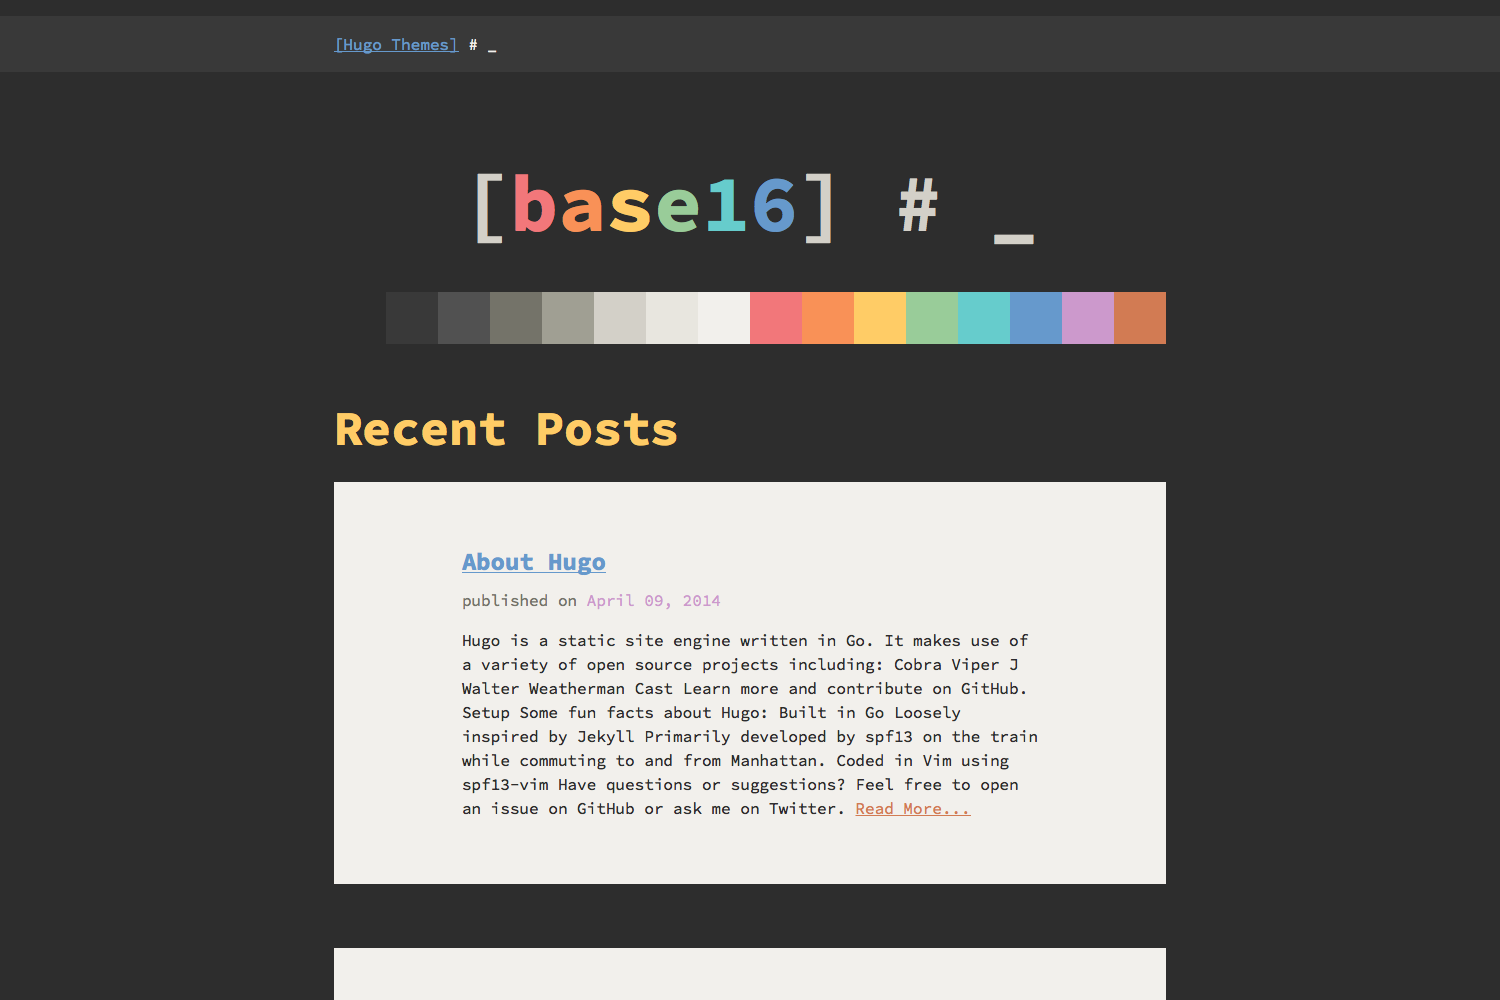
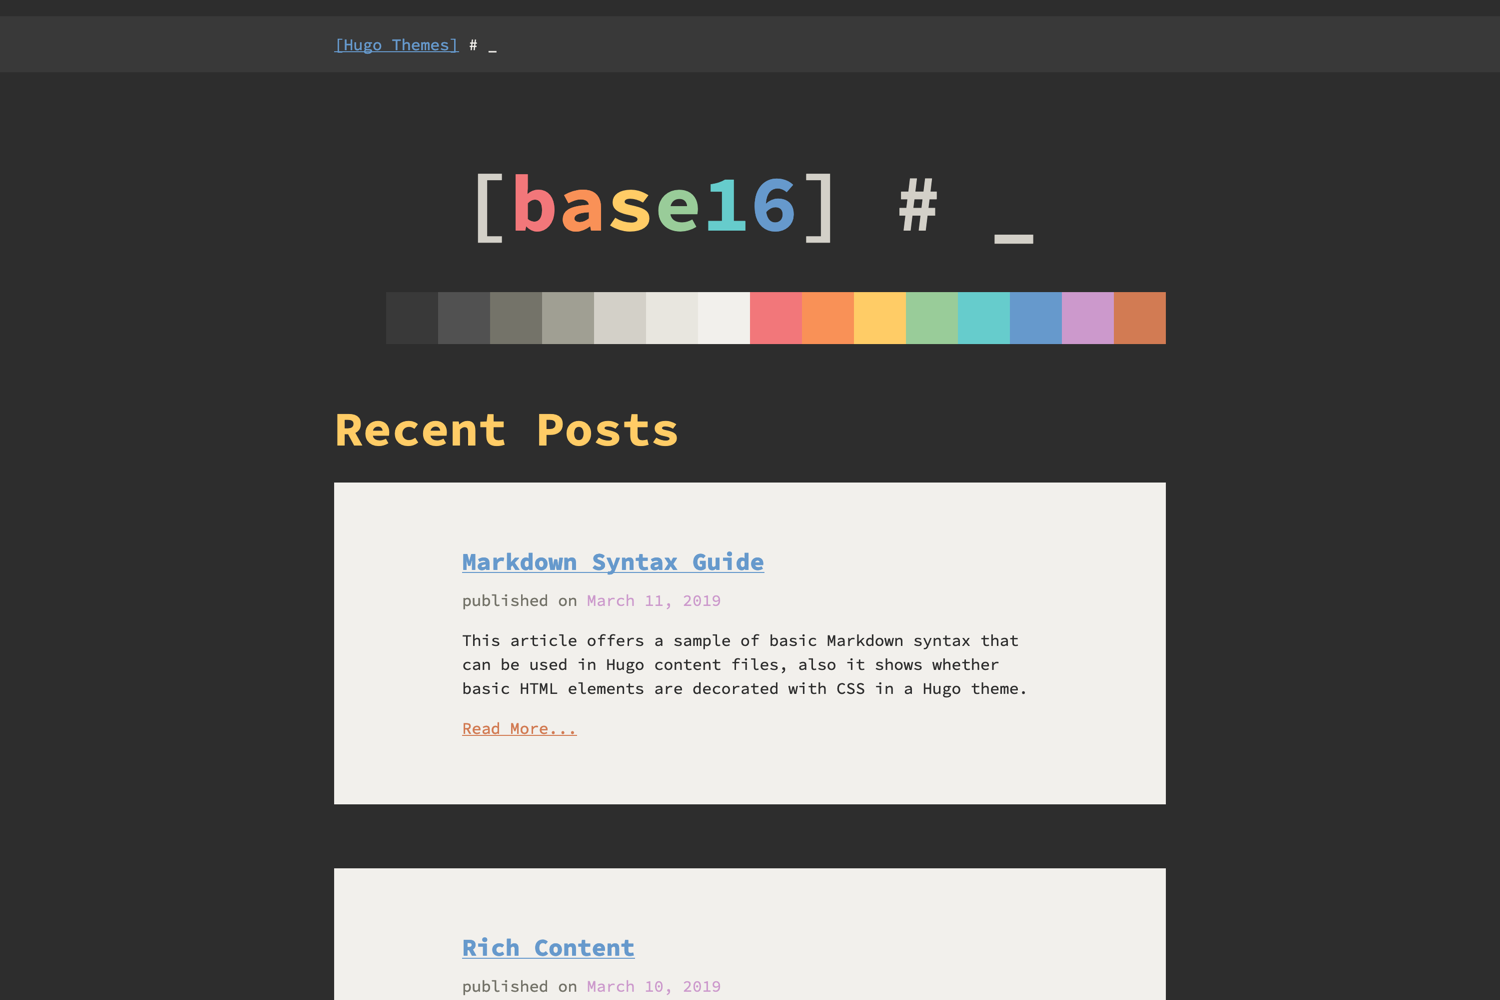
Fix homepage for Hugo v0.57.0+
Closes #24

diff --git a/layouts/partials/homepage.html b/layouts/partials/homepage.html
@@ -5,7 +5,7 @@
 
   <h1 class="headline">Recent Posts</h1>
 
-  {{ $paginator := .Paginate (where .Data.Pages "Section" "post") (or .Site.Params.paginate 3) }}
+  {{ $paginator := .Paginate (where .Site.RegularPages "Section" "post") (or .Site.Params.paginate 3) }}
   <div class="article-list">
     {{ range $paginator.Pages }}
       {{ partial "article-list-item.html" . }}
